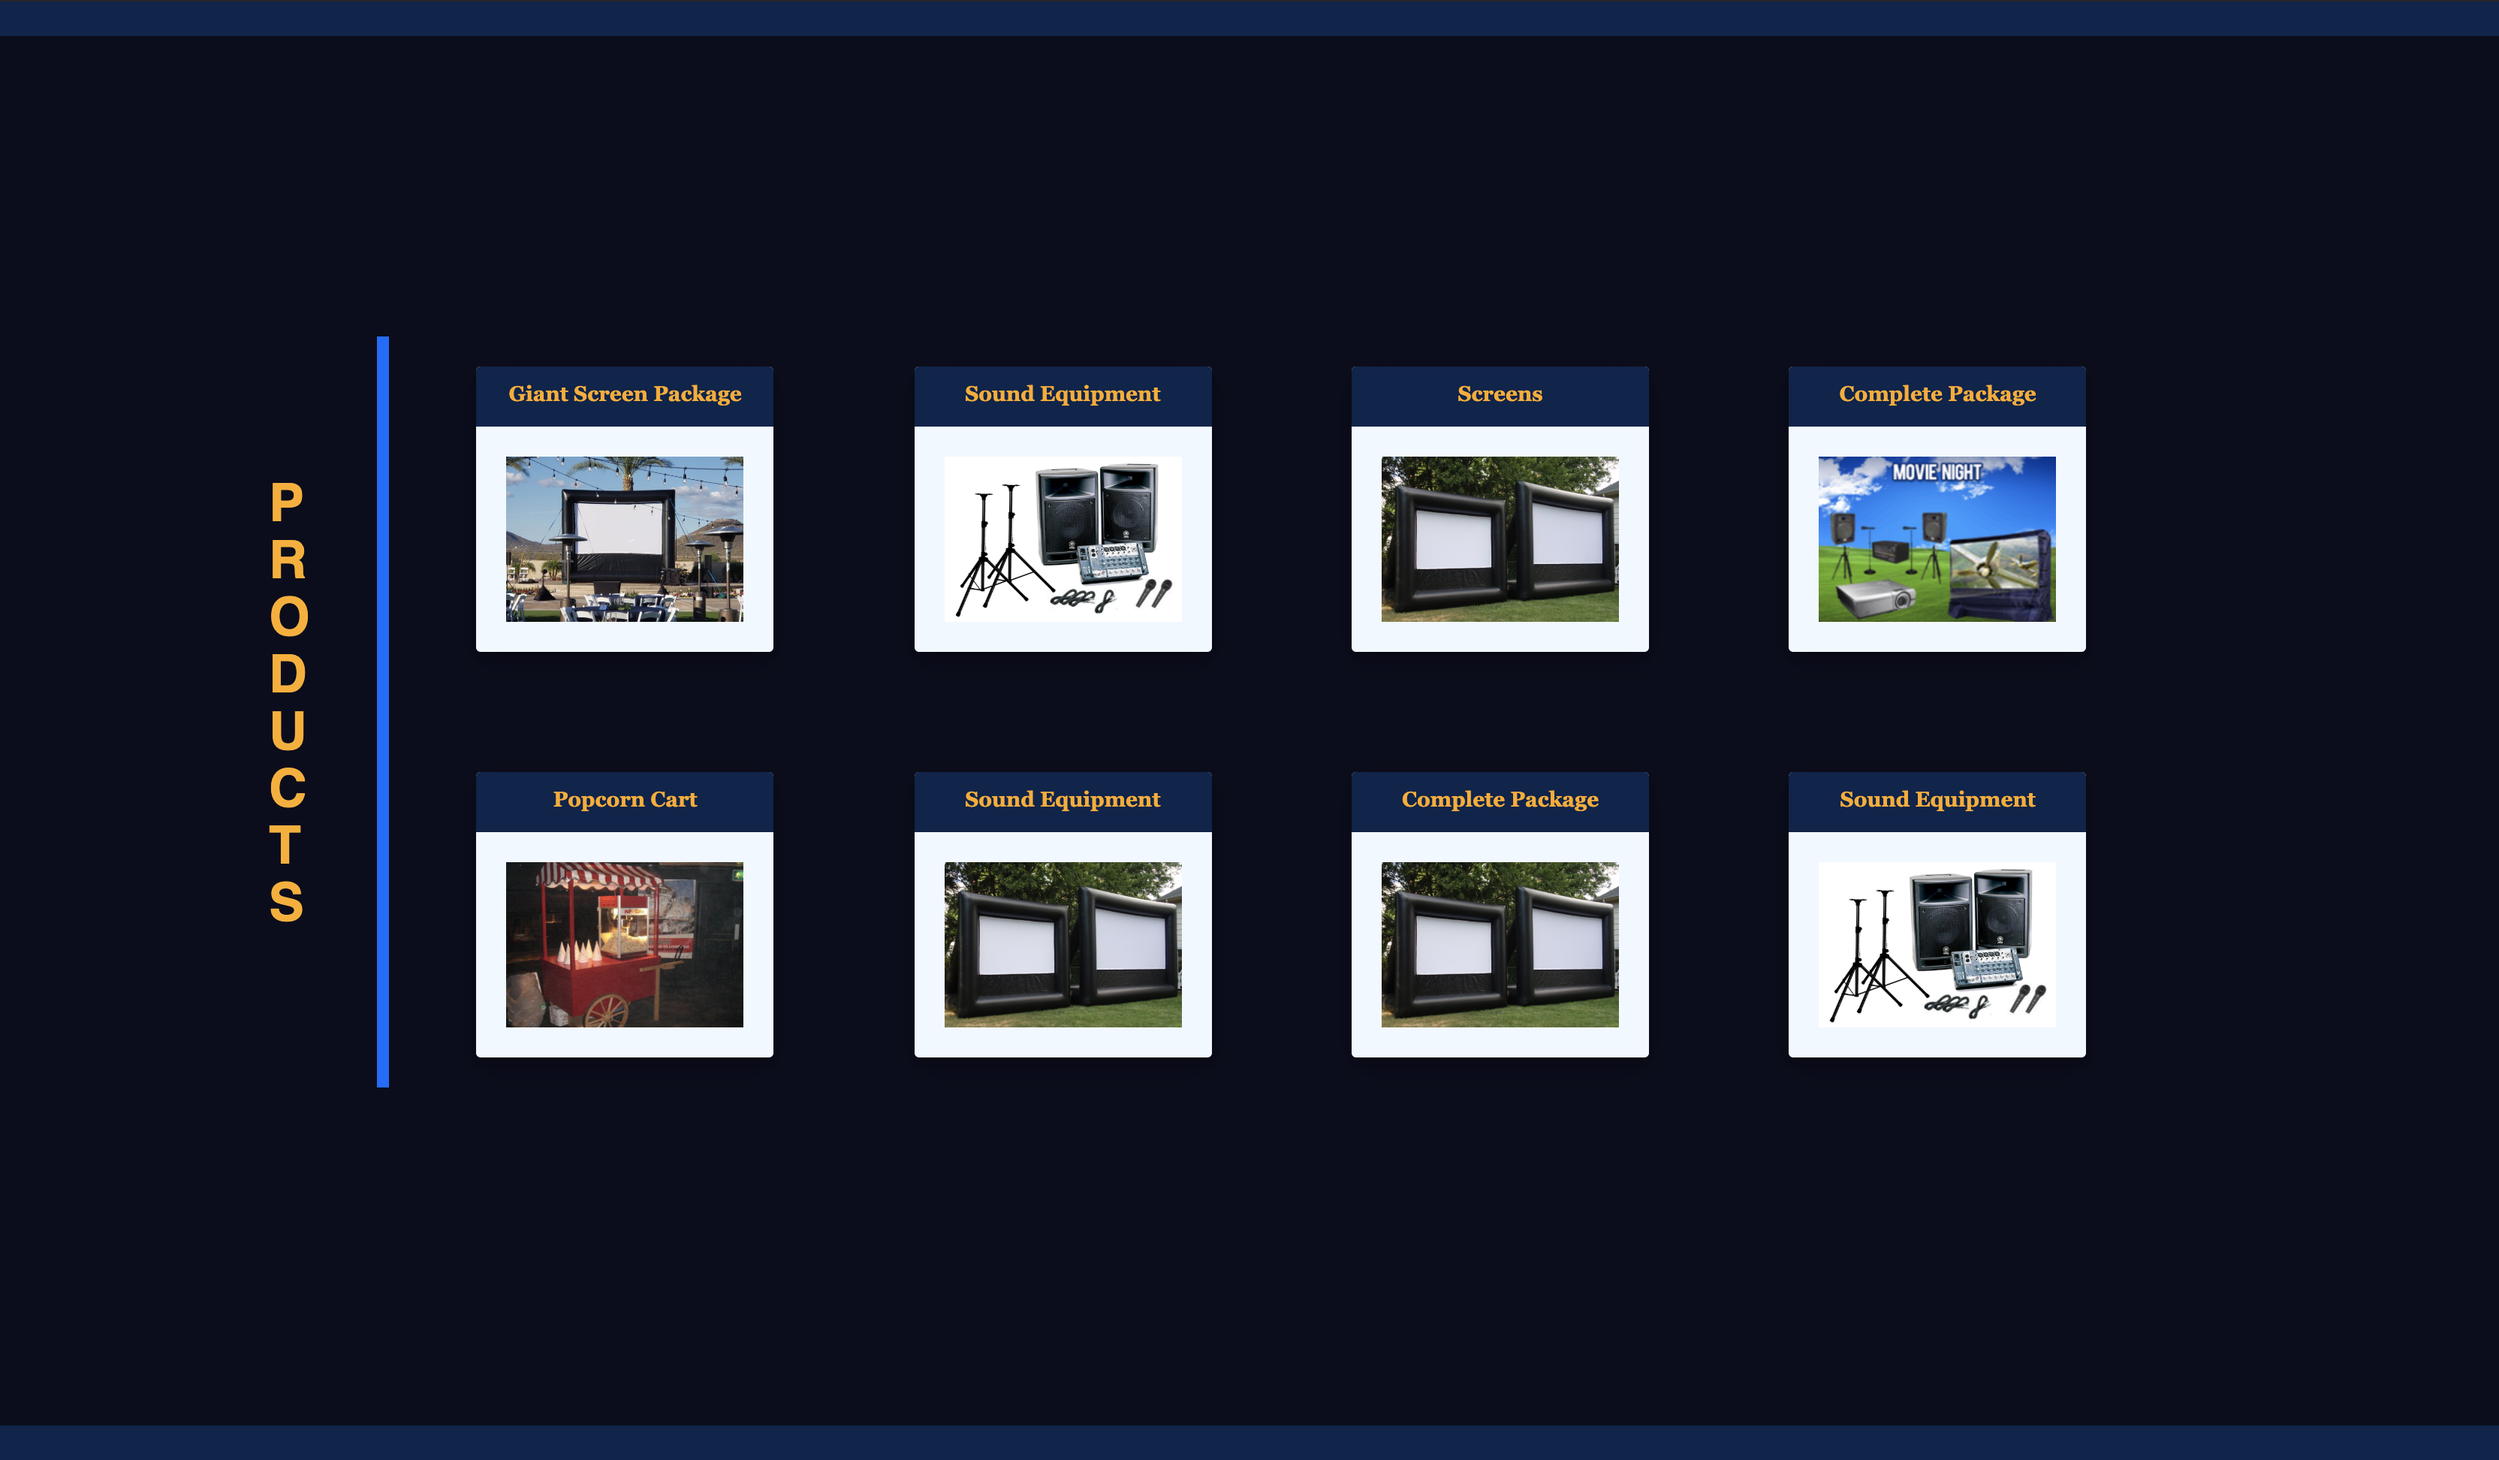
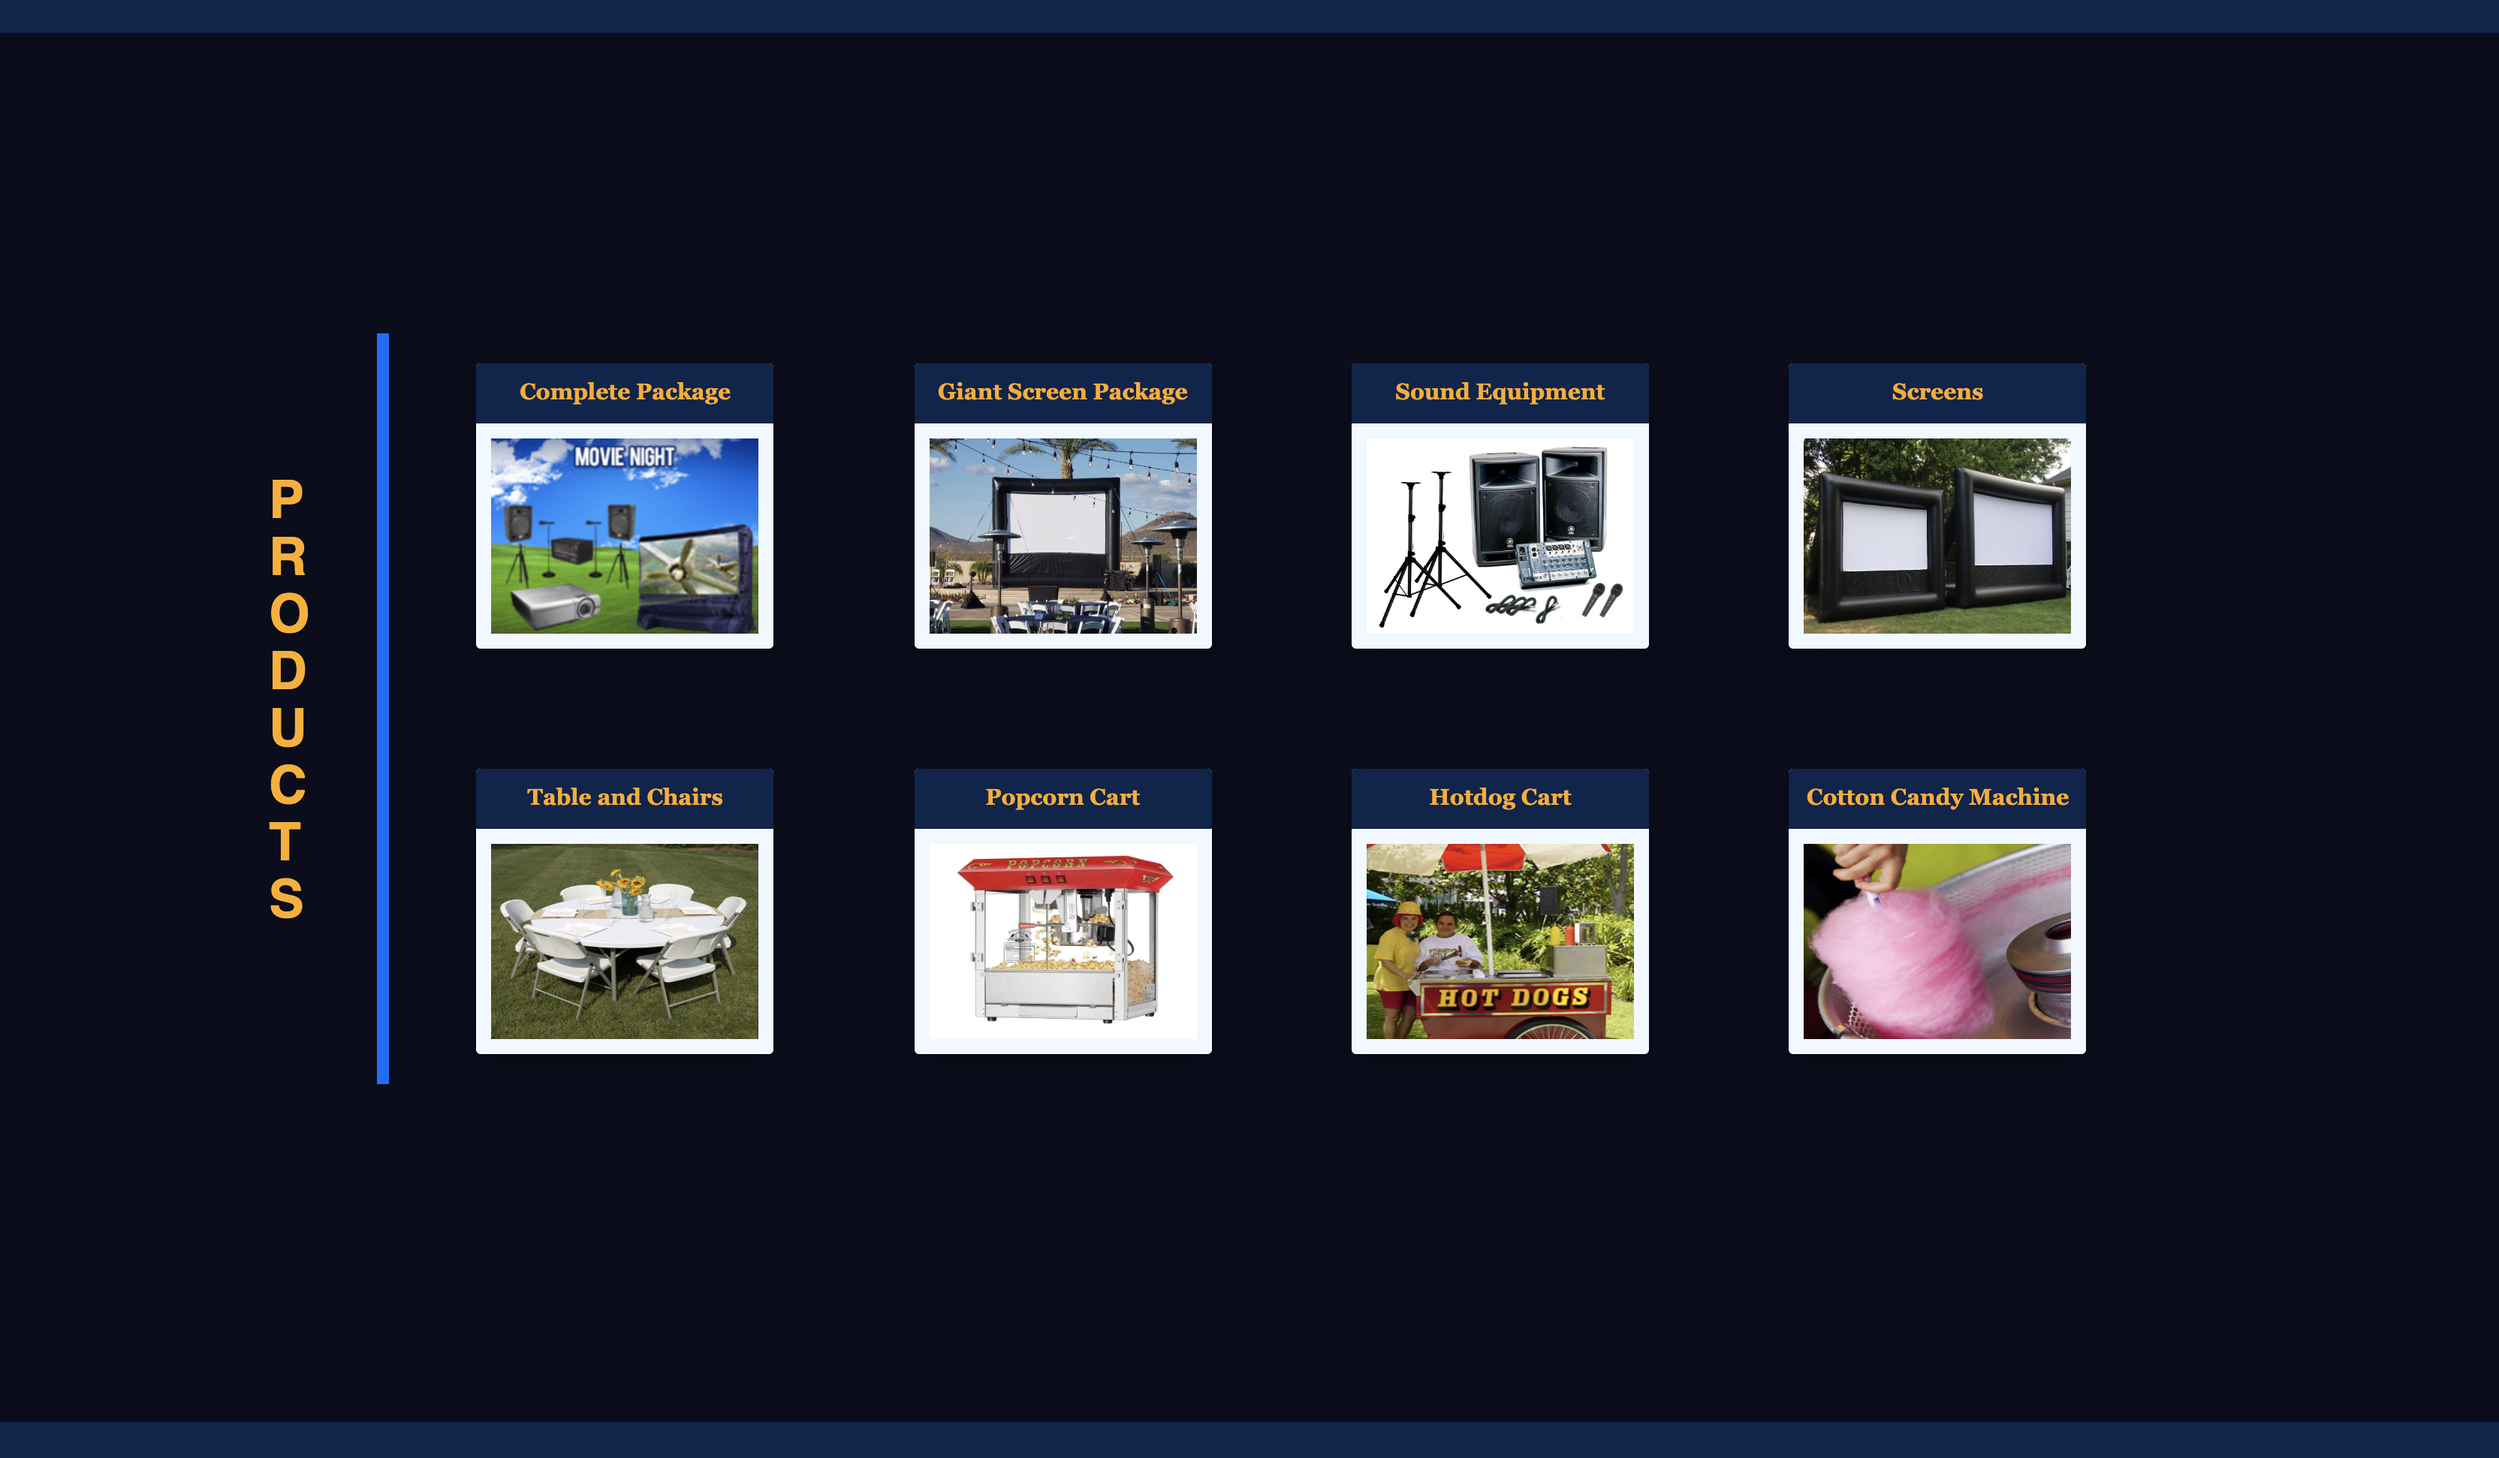
Update screenshots of project

diff --git a/src/constants/MasterProductList.js b/src/constants/MasterProductList.js
@@ -2,82 +2,87 @@ import { v4 } from 'uuid';
 import screensImage from './../assets/images/screens.jpg';
 import soundImage from './../assets/images/sound.jpg';
 import giantScreenImage from './../assets/images/giant-screen.jpg';
-import popcornCart from './../assets/images/popcorn-cart.jpeg';
+import popcornCart from './../assets/images/product-popcorn.jpg';
+import cottonCandy from './../assets/images/product-cotton-candy.jpg';
+import tableChairs from './../assets/images/product-table-chairs.jpg';
+import hotdogCart from './../assets/images/product-hotdog-cart.jpg';
+
 import completePackage from './../assets/images/package.png';
 
-export const masterProductList = [{
-  title: 'Giant Screen Package',
-  id: v4(),
-  productId: '0',
-  key: 0,
-  price: '695',
-  mainImage: giantScreenImage,
-  size: 'Actual Size: 23\'W X 16\'H X 15"L',
-  description: 'Bring the BIG screen to your backyard or outdoor party! Entertain your guests at your next outdoor party with a movie or presentation. Our huge outdoor inflatable movie screens will be the "WOW" factor at any event!',
-  ideas: 'Outdoor Movie Screen Party Ideas: Backyard Movie, Super Bowl Party, Video Game Tournament, Dance Party, PowerPoint presentations, Outdoor Fundraisers, Poolside Movie, Block Party, Drive In Movie, Corporate Events, Holiday Events, Premiere Events, Outdoor Grad Nights, Movie in the Park, Dive In Movie.',
-  included: ['Inflatable Screen', 'Concert Grade Mackie or QSC 12\' High Powered Speakers', '3600-4600 lumen Projector', 'Blu Ray DVD Player', 'Set up and Tear Down of all rented equipment', 'Viewable Screen Dimensions 16\'W X 9\'H  (actual dimensions 23\'W X 16\'H X 15"L)', 'Professional Staff for your event']
-},
-{
-  title: 'Sound Equipment',
-  id: v4(),
-  productId: '1',
-  price: '149',
-  mainImage: soundImage,
-  key: 1,
-  description: 'Lorem ipsum, dolor sit amet consectetur adipisicing elit. Explicabo quia neque quidem voluptatum, quaerat fuga? Illo, a! Error minima odit sit totam iusto eveniet consequuntur corporis.'
-},
-{
-  title: 'Screens',
-  id: v4(),
-  productId: '2',
-  price: '499',
-  mainImage: screensImage,
-  key: 2,
-  description: 'Lorem ipsum, dolor sit amet consectetur adipisicing elit. Explicabo quia neque quidem voluptatum, quaerat fuga? Illo, a! Error minima odit sit totam iusto eveniet consequuntur corporis laboriosam nobis aperiam nostrum, ad voluptatibus nihil. Nam, asperiores voluptas ab accusamus reiciendis quidem earum dolorum. '
-},
-{
-  title: 'Complete Package',
-  id: v4(),
-  productId: '3',
-  price: '499',
-  mainImage: completePackage,
-  key: 3,
-  description: 'Lorem ipsum, dolor sit amet consectetur adipisicing elit. Explicabo quia neque quidem voluptatum, quaerat fuga? Illo, a! Error minima odit sit totam iusto eveniet consequuntur corporis laboriosam nobis aperiam nostrum, ad voluptatibus nihil.'
-},
-{
-  title: 'Popcorn Cart',
-  id: v4(),
-  productId: '4',
-  price: '49',
-  mainImage: popcornCart,
-  key: 4,
-  description: 'Lorem ipsum, dolor sit amet consectetur adipisicing elit. Explicabo quia neque quidem voluptatum, quaerat fuga? Illo, a! Error minima odit sit totam iusto eveniet consequuntur corporis laboriosam nobis aperiam nostrum, ad voluptatibus nihil. '
-},
-{
-  title: 'Sound Equipment',
-  id: v4(),
-  productId: '5',
-  price: '499',
-  mainImage: screensImage,
-  key: 5,
-  description: 'Lorem ipsum, dolor sit amet consectetur adipisicing elit. Explicabo quia neque quidem voluptatum, quaerat fuga? Illo, a! Error minima odit sit totam iusto eveniet consequuntur corporis laboriosam nobis aperiam nostrum, ad voluptatibus nihil. Nam, asperiores voluptas ab accusamus reiciendis quidem earum dolorum. Ipsum nam ut magni sequi qui. Explicabo, neque nihil ea nesciunt repudiandae ducimus. '
-},
-{
-  title: 'Complete Package',
-  id: v4(),
-  productId: '6',
-  price: '499',
-  mainImage: screensImage,
-  key: 6,
-  description: 'Lorem ipsum, dolor sit amet consectetur adipisicing elit. Explicabo quia neque quidem voluptatum, quaerat fuga? Illo, a! Error minima odit sit totam iusto eveniet consequuntur corporis laboriosam nobis aperiam nostrum, ad voluptatibus nihil.'
-},
-{
-  title: 'Sound Equipment',
-  id: v4(),
-  productId: '7',
-  price: '149',
-  mainImage: soundImage,
-  key: 7,
-  description: 'Lorem ipsum, dolor sit amet consectetur adipisicing elit. Explicabo quia neque quidem voluptatum, quaerat fuga? Illo, a! Error minima odit sit totam iusto eveniet consequuntur corporis laboriosam nobis aperiam nostrum, ad voluptatibus nihil. Nam, asperiores voluptas ab accusamus reiciendis quidem earum dolorum. '
-}];
+export const masterProductList = [
+  {
+    title: 'Complete Package',
+    id: v4(),
+    productId: '0',
+    price: '499',
+    mainImage: completePackage,
+    key: 3,
+    description: 'Lorem ipsum, dolor sit amet consectetur adipisicing elit. Explicabo quia neque quidem voluptatum, quaerat fuga? Illo, a! Error minima odit sit totam iusto eveniet consequuntur corporis laboriosam nobis aperiam nostrum, ad voluptatibus nihil.'
+  },
+  {
+    title: 'Giant Screen Package',
+    id: v4(),
+    productId: '1',
+    key: 0,
+    price: '695',
+    mainImage: giantScreenImage,
+    size: 'Actual Size: 23\'W X 16\'H X 15"L',
+    description: 'Bring the BIG screen to your backyard or outdoor party! Entertain your guests at your next outdoor party with a movie or presentation. Our huge outdoor inflatable movie screens will be the "WOW" factor at any event!',
+    ideas: 'Outdoor Movie Screen Party Ideas: Backyard Movie, Super Bowl Party, Video Game Tournament, Dance Party, PowerPoint presentations, Outdoor Fundraisers, Poolside Movie, Block Party, Drive In Movie, Corporate Events, Holiday Events, Premiere Events, Outdoor Grad Nights, Movie in the Park, Dive In Movie.',
+    included: ['Inflatable Screen', 'Concert Grade Mackie or QSC 12\' High Powered Speakers', '3600-4600 lumen Projector', 'Blu Ray DVD Player', 'Set up and Tear Down of all rented equipment', 'Viewable Screen Dimensions 16\'W X 9\'H  (actual dimensions 23\'W X 16\'H X 15"L)', 'Professional Staff for your event']
+  },
+  {
+    title: 'Sound Equipment',
+    id: v4(),
+    productId: '2',
+    price: '149',
+    mainImage: soundImage,
+    key: 1,
+    description: 'Lorem ipsum, dolor sit amet consectetur adipisicing elit. Explicabo quia neque quidem voluptatum, quaerat fuga? Illo, a! Error minima odit sit totam iusto eveniet consequuntur corporis.'
+  },
+  {
+    title: 'Screens',
+    id: v4(),
+    productId: '3',
+    price: '499',
+    mainImage: screensImage,
+    key: 2,
+    description: 'Lorem ipsum, dolor sit amet consectetur adipisicing elit. Explicabo quia neque quidem voluptatum, quaerat fuga? Illo, a! Error minima odit sit totam iusto eveniet consequuntur corporis laboriosam nobis aperiam nostrum, ad voluptatibus nihil. Nam, asperiores voluptas ab accusamus reiciendis quidem earum dolorum. '
+  },
+  {
+    title: 'Table and Chairs',
+    id: v4(),
+    productId: '4',
+    price: '499',
+    mainImage: tableChairs,
+    key: 5,
+    description: 'Lorem ipsum, dolor sit amet consectetur adipisicing elit. Explicabo quia neque quidem voluptatum, quaerat fuga? Illo, a! Error minima odit sit totam iusto eveniet consequuntur corporis laboriosam nobis aperiam nostrum, ad voluptatibus nihil. Nam, asperiores voluptas ab accusamus reiciendis quidem earum dolorum. Ipsum nam ut magni sequi qui. Explicabo, neque nihil ea nesciunt repudiandae ducimus. '
+  },
+  {
+    title: 'Popcorn Cart',
+    id: v4(),
+    productId: '5',
+    price: '49',
+    mainImage: popcornCart,
+    key: 4,
+    description: 'Lorem ipsum, dolor sit amet consectetur adipisicing elit. Explicabo quia neque quidem voluptatum, quaerat fuga? Illo, a! Error minima odit sit totam iusto eveniet consequuntur corporis laboriosam nobis aperiam nostrum, ad voluptatibus nihil. '
+  },
+  {
+    title: 'Hotdog Cart',
+    id: v4(),
+    productId: '6',
+    price: '499',
+    mainImage: hotdogCart,
+    key: 6,
+    description: 'Lorem ipsum, dolor sit amet consectetur adipisicing elit. Explicabo quia neque quidem voluptatum, quaerat fuga? Illo, a! Error minima odit sit totam iusto eveniet consequuntur corporis laboriosam nobis aperiam nostrum, ad voluptatibus nihil.'
+  },
+  {
+    title: 'Cotton Candy Machine',
+    id: v4(),
+    productId: '7',
+    price: '149',
+    mainImage: cottonCandy,
+    key: 7,
+    description: 'Lorem ipsum, dolor sit amet consectetur adipisicing elit. Explicabo quia neque quidem voluptatum, quaerat fuga? Illo, a! Error minima odit sit totam iusto eveniet consequuntur corporis laboriosam nobis aperiam nostrum, ad voluptatibus nihil. Nam, asperiores voluptas ab accusamus reiciendis quidem earum dolorum. '
+  }];
 
